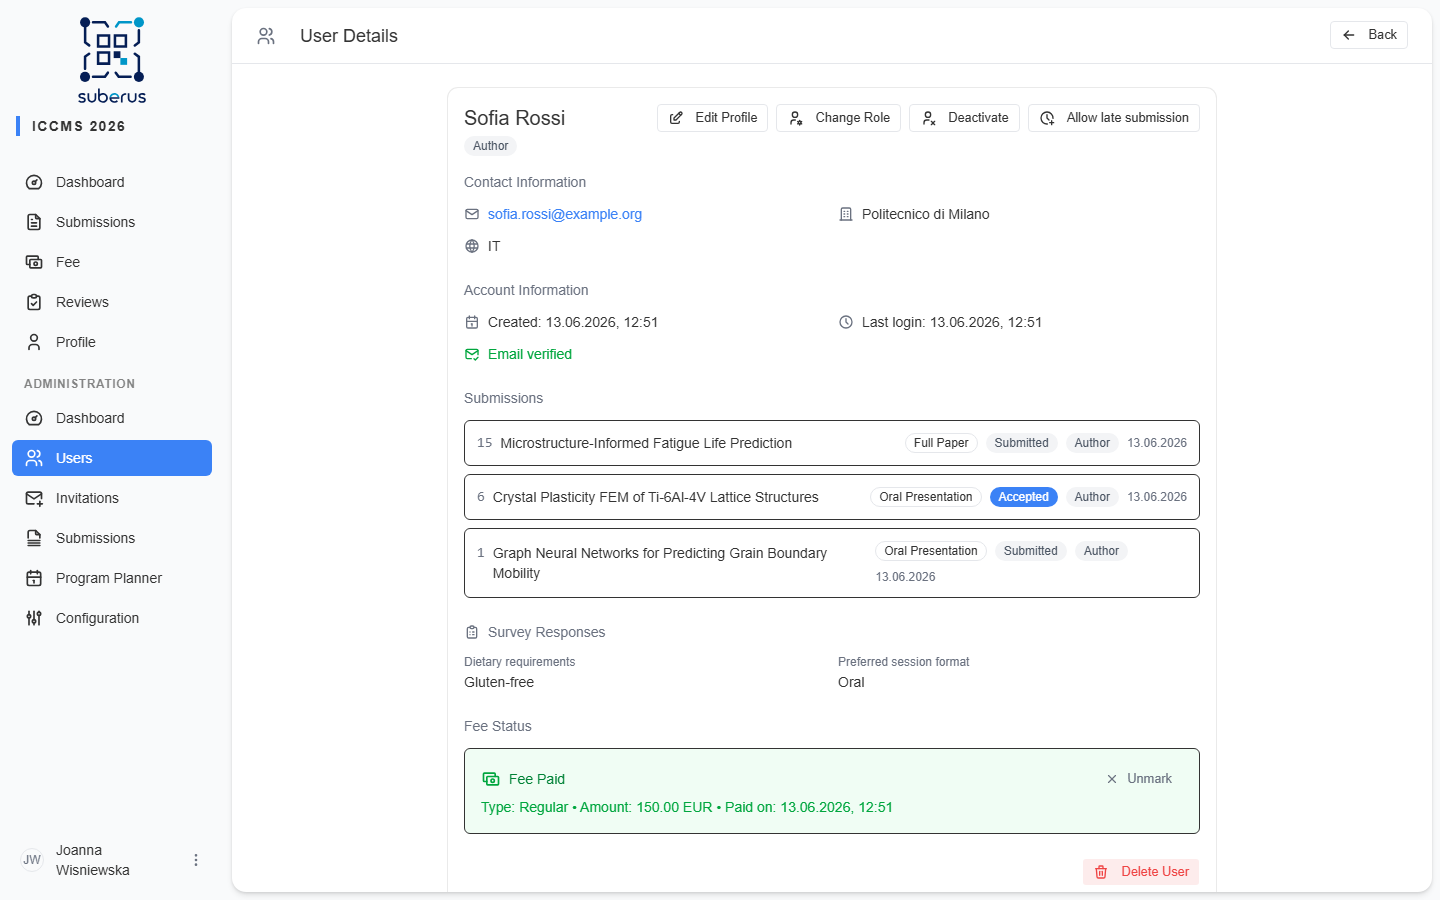
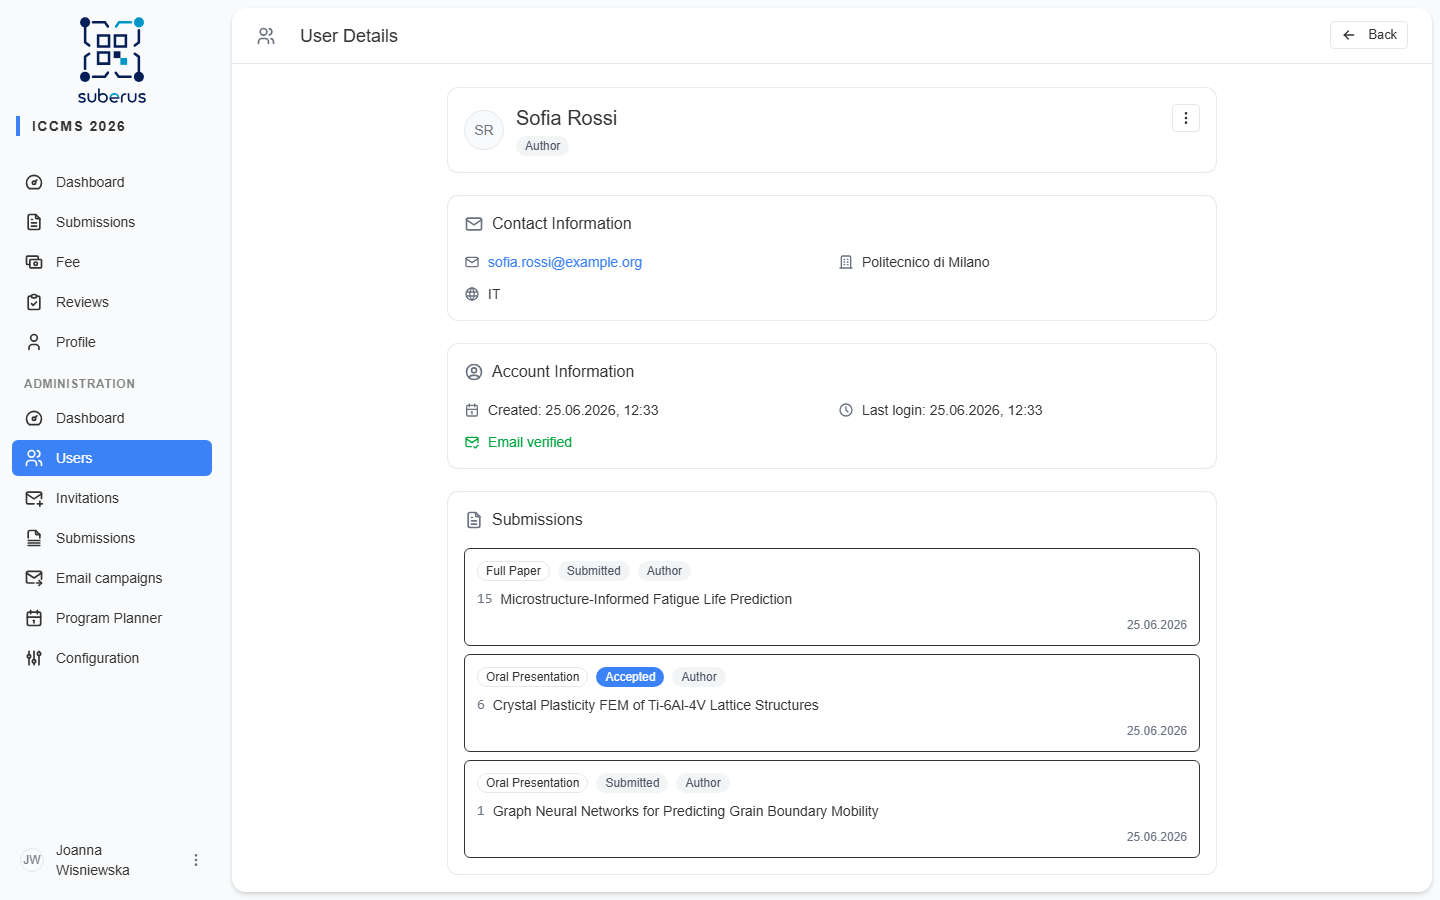
docs: update docs regarding recent changes

diff --git a/docs/SCREENSHOTS.md b/docs/SCREENSHOTS.md
@@ -57,7 +57,7 @@ Settings tabs deep-link via `?tab=<id>`.
 - [x] **19** — `managing/submissions.mdx` — *Submission detail — Content tab with version selector* — `/admin/submissions/<id>`
 - [x] **20** — `managing/reviews.mdx` — *Assign reviewer dialog* (open) — `/admin/submissions/<id>` → Assign reviewer
 - [x] **21** — `managing/users.mdx` — *Users list* (columns + survey columns) — `/admin/users`
-- [x] **22** — `managing/users.mdx` — *User detail actions* (incl. Allow late submission) — `/admin/users/<id>`
+- [x] **22** — `managing/users.mdx` — *User detail* (header + ⋯ actions, contact/account/fee cards) — `/admin/users/<id>`
 - [x] **23** — `managing/users.mdx` — *User submissions panel* — `/admin/users/<id>`
 - [x] **24** — `managing/invitations.mdx` — *Invitations list* — `/admin/invitations`
 - [x] **25** — `planner/overview.mdx` — *Program Planner calendar* (rooms × days) — `/admin/program-planner`
@@ -82,6 +82,6 @@ Settings tabs deep-link via `?tab=<id>`.
 - **03 (installer):** only reachable before the system is installed; capture on a fresh DB / e2e instance.
 - **14 (ToS):** switch to the **Preview** tab, not Edit.
 - **19, 20, 26, 27:** open a specific submission (version selector / open dialog / DOCX upload / history section).
-- **22, 23:** open a specific user; **22** needs the action area (incl. *Allow late submission*).
+- **22, 23:** open a specific user; **22** shows the header + info cards (actions live in the **⋯** menu), **23** the submissions panel.
 - **30 (autoplan):** needs the LLM + clustering services reachable (`LLM_API_URL`, `PLANNER_API_URL`); the test skips itself if either is down. Captures the *result preview*, not the transient stage screen.
 - **32 (public program):** publishes the schedule via the `setSchedulePublished(true)` helper, captures `/program`, then restores draft.
